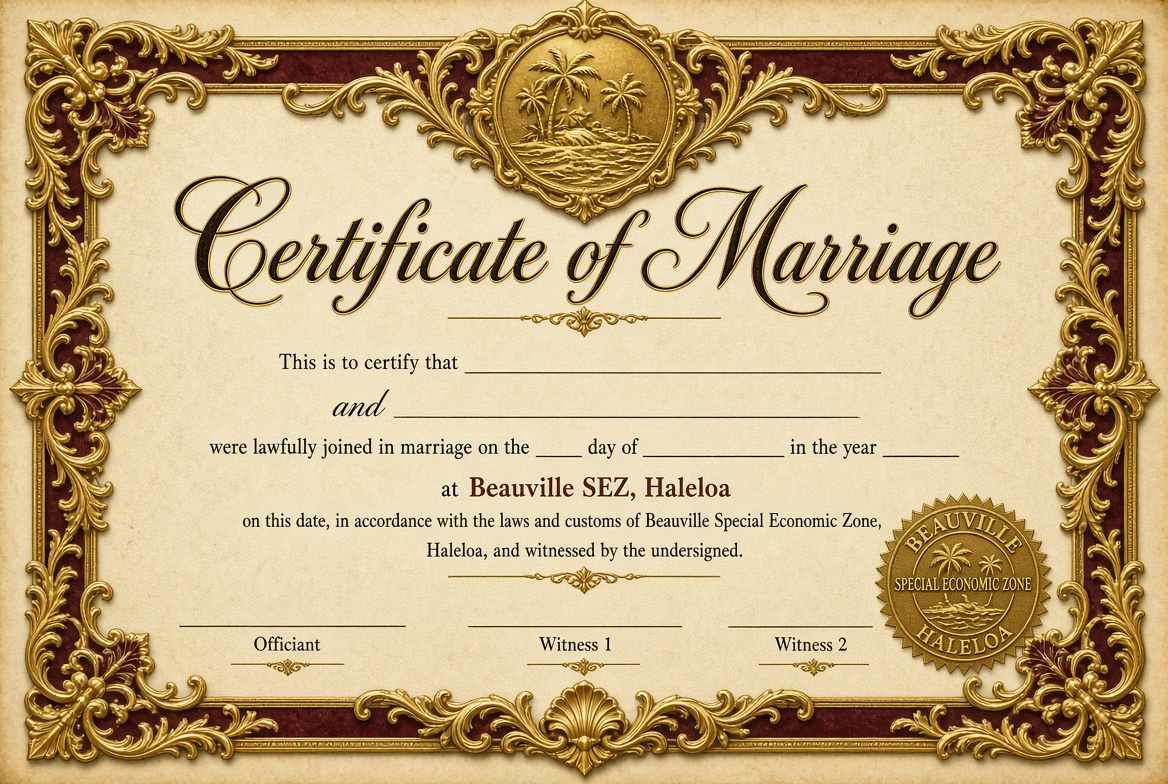
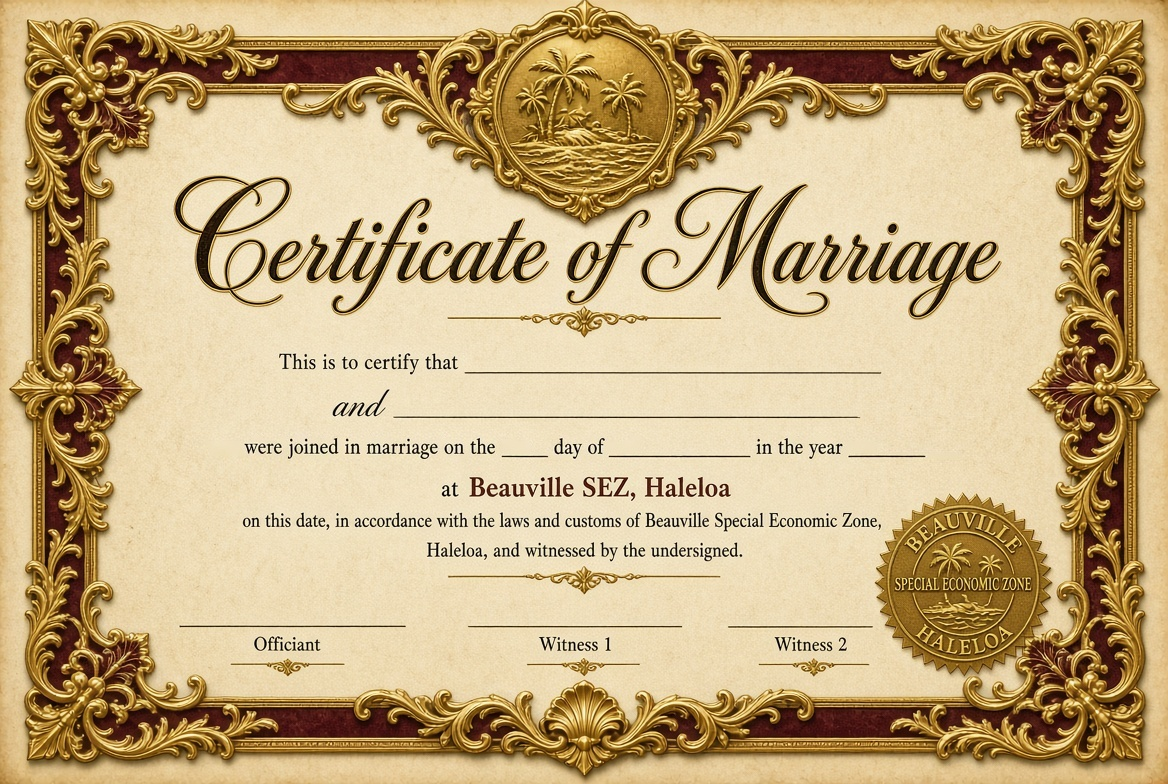
Certificates: remove 'of our Lord' and 'lawfully', fix overlapping names
- Tropical: 'in the year of our Lord' becomes 'in the year' (line re-centred)
- Classic: 'were lawfully joined' becomes 'were joined' (line re-centred)
- Move the date fields to follow the re-centred lines
- Shrink any name that is wider than its line, so names never run into
  printed words or the seal
- Crown: widen the combined witness line; slightly smaller date and
  officiant text so the couple's names stand out

Applies to EN, ZH and FR account pages.

Claude-Session: https://claude.ai/code/session_01KGKCMNaiShYf7QW6jZMLtX

Changed region(s): [[0.1849, 0.551, 0.5548, 0.5816], [0.6473, 0.551, 0.7705, 0.5816]]

diff --git a/login-fr.html b/login-fr.html
@@ -567,11 +567,11 @@
       fields: {
         name1: { top: '46.6%', left: '50%', width: '42%' },
         name2: { top: '58.3%', left: '50%', width: '42%' },
-        day:   { top: '68.5%', left: '39.5%', width: '9%' },
-        month: { top: '68.5%', left: '48.5%', width: '9%' },
-        year:  { top: '68.5%', left: '64.2%', width: '15%' },
-        official:  { top: '83.2%', left: '35.7%', width: '17%' },
-        witness1:  { top: '83.2%', left: '62.7%', width: '16%' },
+        day:   { top: '68.5%', left: '39.5%', width: '9%', fontSize: 'clamp(8px, 1.75vw, 14px)' },
+        month: { top: '68.5%', left: '48.5%', width: '9%', fontSize: 'clamp(8px, 1.75vw, 14px)' },
+        year:  { top: '68.5%', left: '64.2%', width: '15%', fontSize: 'clamp(8px, 1.75vw, 14px)' },
+        official:  { top: '83.2%', left: '35.7%', width: '17%', fontSize: 'clamp(8px, 1.75vw, 14px)' },
+        witness1:  { top: '83.2%', left: '62.7%', width: '19%' },
         no:        { top: '37.2%', left: '78%', width: '14%' }
       }
     },
@@ -583,9 +583,9 @@
       fields: {
         name1: { top: '47.5%', left: '57.6%', width: '34%' },
         name2: { top: '53.2%', left: '53.6%', width: '38%' },
-        day:   { top: '58.2%', left: '47.8%', width: '8%' },
-        month: { top: '58.2%', left: '61.1%', width: '11%' },
-        year:  { top: '58.2%', left: '78.8%', width: '10%' },
+        day:   { top: '58.2%', left: '44.9%', width: '8%' },
+        month: { top: '58.2%', left: '58.2%', width: '11%' },
+        year:  { top: '58.2%', left: '75.9%', width: '10%' },
         official:  { top: '79.9%', left: '25%', width: '18%' },
         witness1:  { top: '79.9%', left: '49.2%', width: '17%' },
         witness2:  { top: '79.9%', left: '68.5%', width: '12%' },
@@ -602,7 +602,7 @@
         name2: { top: '54.6%', left: '65.1%', width: '24%' },
         day:   { top: '59.9%', left: '57.3%', width: '8%' },
         month: { top: '59.9%', left: '70.6%', width: '14%' },
-        year:  { top: '64.8%', left: '60.7%', width: '12%' },
+        year:  { top: '64.8%', left: '55.1%', width: '12%' },
         official:  { top: '83.2%', left: '22%', width: '15%' },
         witness1:  { top: '83.2%', left: '41.6%', width: '15%' },
         witness2:  { top: '83.2%', left: '61.4%', width: '15%' },
@@ -646,6 +646,27 @@
   };
 
   let currentCertStyle = 'crown';
+  // Shrink any name that is wider than its line on the certificate, so long
+  // names never run into the printed words or the seal.
+  function fitCertFields() {
+    const visual = document.getElementById('certificateVisual');
+    if (!visual) return;
+    visual.querySelectorAll('.cert-field').forEach(el => {
+      if (el.classList.contains('cert-no') || el.style.display === 'none') return;
+      el.style.removeProperty('--fit');
+      const style = CERT_STYLES[currentCertStyle];
+      const key = [...el.classList].find(c => c.startsWith('cert-') && c !== 'cert-field').slice(5);
+      el.style.fontSize = (style.fields[key] && style.fields[key].fontSize) || '';
+      if (!el.clientWidth) return;
+      let size = parseFloat(getComputedStyle(el).fontSize);
+      while (el.scrollWidth > el.clientWidth + 1 && size > 7) {
+        size -= 0.5;
+        el.style.fontSize = size + 'px';
+      }
+    });
+  }
+  window.addEventListener('resize', fitCertFields);
+
   let currentCertRecord = null;
 
   function applyCertStyle(styleKey) {
@@ -688,6 +709,7 @@
     document.querySelectorAll('.cert-style-btn').forEach(btn => {
       btn.classList.toggle('active', btn.dataset.style === styleKey);
     });
+    requestAnimationFrame(fitCertFields);
   }
 
   // Builds the picker from scratch for the given tier — only buttons for

diff --git a/login-zh.html b/login-zh.html
@@ -567,11 +567,11 @@
       fields: {
         name1: { top: '46.6%', left: '50%', width: '42%' },
         name2: { top: '58.3%', left: '50%', width: '42%' },
-        day:   { top: '68.5%', left: '39.5%', width: '9%' },
-        month: { top: '68.5%', left: '48.5%', width: '9%' },
-        year:  { top: '68.5%', left: '64.2%', width: '15%' },
-        official:  { top: '83.2%', left: '35.7%', width: '17%' },
-        witness1:  { top: '83.2%', left: '62.7%', width: '16%' },
+        day:   { top: '68.5%', left: '39.5%', width: '9%', fontSize: 'clamp(8px, 1.75vw, 14px)' },
+        month: { top: '68.5%', left: '48.5%', width: '9%', fontSize: 'clamp(8px, 1.75vw, 14px)' },
+        year:  { top: '68.5%', left: '64.2%', width: '15%', fontSize: 'clamp(8px, 1.75vw, 14px)' },
+        official:  { top: '83.2%', left: '35.7%', width: '17%', fontSize: 'clamp(8px, 1.75vw, 14px)' },
+        witness1:  { top: '83.2%', left: '62.7%', width: '19%' },
         no:        { top: '37.2%', left: '78%', width: '14%' }
       }
     },
@@ -583,9 +583,9 @@
       fields: {
         name1: { top: '47.5%', left: '57.6%', width: '34%' },
         name2: { top: '53.2%', left: '53.6%', width: '38%' },
-        day:   { top: '58.2%', left: '47.8%', width: '8%' },
-        month: { top: '58.2%', left: '61.1%', width: '11%' },
-        year:  { top: '58.2%', left: '78.8%', width: '10%' },
+        day:   { top: '58.2%', left: '44.9%', width: '8%' },
+        month: { top: '58.2%', left: '58.2%', width: '11%' },
+        year:  { top: '58.2%', left: '75.9%', width: '10%' },
         official:  { top: '79.9%', left: '25%', width: '18%' },
         witness1:  { top: '79.9%', left: '49.2%', width: '17%' },
         witness2:  { top: '79.9%', left: '68.5%', width: '12%' },
@@ -602,7 +602,7 @@
         name2: { top: '54.6%', left: '65.1%', width: '24%' },
         day:   { top: '59.9%', left: '57.3%', width: '8%' },
         month: { top: '59.9%', left: '70.6%', width: '14%' },
-        year:  { top: '64.8%', left: '60.7%', width: '12%' },
+        year:  { top: '64.8%', left: '55.1%', width: '12%' },
         official:  { top: '83.2%', left: '22%', width: '15%' },
         witness1:  { top: '83.2%', left: '41.6%', width: '15%' },
         witness2:  { top: '83.2%', left: '61.4%', width: '15%' },
@@ -646,6 +646,27 @@
   };
 
   let currentCertStyle = 'crown';
+  // Shrink any name that is wider than its line on the certificate, so long
+  // names never run into the printed words or the seal.
+  function fitCertFields() {
+    const visual = document.getElementById('certificateVisual');
+    if (!visual) return;
+    visual.querySelectorAll('.cert-field').forEach(el => {
+      if (el.classList.contains('cert-no') || el.style.display === 'none') return;
+      el.style.removeProperty('--fit');
+      const style = CERT_STYLES[currentCertStyle];
+      const key = [...el.classList].find(c => c.startsWith('cert-') && c !== 'cert-field').slice(5);
+      el.style.fontSize = (style.fields[key] && style.fields[key].fontSize) || '';
+      if (!el.clientWidth) return;
+      let size = parseFloat(getComputedStyle(el).fontSize);
+      while (el.scrollWidth > el.clientWidth + 1 && size > 7) {
+        size -= 0.5;
+        el.style.fontSize = size + 'px';
+      }
+    });
+  }
+  window.addEventListener('resize', fitCertFields);
+
   let currentCertRecord = null;
 
   function applyCertStyle(styleKey) {
@@ -688,6 +709,7 @@
     document.querySelectorAll('.cert-style-btn').forEach(btn => {
       btn.classList.toggle('active', btn.dataset.style === styleKey);
     });
+    requestAnimationFrame(fitCertFields);
   }
 
   // Builds the picker from scratch for the given tier — only buttons for

diff --git a/login.html b/login.html
@@ -567,11 +567,11 @@
       fields: {
         name1: { top: '46.6%', left: '50%', width: '42%' },
         name2: { top: '58.3%', left: '50%', width: '42%' },
-        day:   { top: '68.5%', left: '39.5%', width: '9%' },
-        month: { top: '68.5%', left: '48.5%', width: '9%' },
-        year:  { top: '68.5%', left: '64.2%', width: '15%' },
-        official:  { top: '83.2%', left: '35.7%', width: '17%' },
-        witness1:  { top: '83.2%', left: '62.7%', width: '16%' },
+        day:   { top: '68.5%', left: '39.5%', width: '9%', fontSize: 'clamp(8px, 1.75vw, 14px)' },
+        month: { top: '68.5%', left: '48.5%', width: '9%', fontSize: 'clamp(8px, 1.75vw, 14px)' },
+        year:  { top: '68.5%', left: '64.2%', width: '15%', fontSize: 'clamp(8px, 1.75vw, 14px)' },
+        official:  { top: '83.2%', left: '35.7%', width: '17%', fontSize: 'clamp(8px, 1.75vw, 14px)' },
+        witness1:  { top: '83.2%', left: '62.7%', width: '19%' },
         no:        { top: '37.2%', left: '78%', width: '14%' }
       }
     },
@@ -583,9 +583,9 @@
       fields: {
         name1: { top: '47.5%', left: '57.6%', width: '34%' },
         name2: { top: '53.2%', left: '53.6%', width: '38%' },
-        day:   { top: '58.2%', left: '47.8%', width: '8%' },
-        month: { top: '58.2%', left: '61.1%', width: '11%' },
-        year:  { top: '58.2%', left: '78.8%', width: '10%' },
+        day:   { top: '58.2%', left: '44.9%', width: '8%' },
+        month: { top: '58.2%', left: '58.2%', width: '11%' },
+        year:  { top: '58.2%', left: '75.9%', width: '10%' },
         official:  { top: '79.9%', left: '25%', width: '18%' },
         witness1:  { top: '79.9%', left: '49.2%', width: '17%' },
         witness2:  { top: '79.9%', left: '68.5%', width: '12%' },
@@ -602,7 +602,7 @@
         name2: { top: '54.6%', left: '65.1%', width: '24%' },
         day:   { top: '59.9%', left: '57.3%', width: '8%' },
         month: { top: '59.9%', left: '70.6%', width: '14%' },
-        year:  { top: '64.8%', left: '60.7%', width: '12%' },
+        year:  { top: '64.8%', left: '55.1%', width: '12%' },
         official:  { top: '83.2%', left: '22%', width: '15%' },
         witness1:  { top: '83.2%', left: '41.6%', width: '15%' },
         witness2:  { top: '83.2%', left: '61.4%', width: '15%' },
@@ -646,6 +646,27 @@
   };
 
   let currentCertStyle = 'crown';
+  // Shrink any name that is wider than its line on the certificate, so long
+  // names never run into the printed words or the seal.
+  function fitCertFields() {
+    const visual = document.getElementById('certificateVisual');
+    if (!visual) return;
+    visual.querySelectorAll('.cert-field').forEach(el => {
+      if (el.classList.contains('cert-no') || el.style.display === 'none') return;
+      el.style.removeProperty('--fit');
+      const style = CERT_STYLES[currentCertStyle];
+      const key = [...el.classList].find(c => c.startsWith('cert-') && c !== 'cert-field').slice(5);
+      el.style.fontSize = (style.fields[key] && style.fields[key].fontSize) || '';
+      if (!el.clientWidth) return;
+      let size = parseFloat(getComputedStyle(el).fontSize);
+      while (el.scrollWidth > el.clientWidth + 1 && size > 7) {
+        size -= 0.5;
+        el.style.fontSize = size + 'px';
+      }
+    });
+  }
+  window.addEventListener('resize', fitCertFields);
+
   let currentCertRecord = null;
 
   function applyCertStyle(styleKey) {
@@ -688,6 +709,7 @@
     document.querySelectorAll('.cert-style-btn').forEach(btn => {
       btn.classList.toggle('active', btn.dataset.style === styleKey);
     });
+    requestAnimationFrame(fitCertFields);
   }
 
   // Builds the picker from scratch for the given tier — only buttons for
